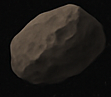
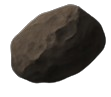
feat: changed obstacles with asteroids images and formatted this images with transparent background

diff --git a/src/motor.js b/src/motor.js
@@ -140,12 +140,17 @@ function update(deltaTime) {
 }
 
 function generateObstacle() {
-    const width = 60 + Math.random() * 40;
-    const height = 40 + Math.random() * 60;
+
+    const asteroidType = Math.round(Math.random() * 6);
+    const asteroidImage = images.asteroids[asteroidType];   
+
+    const width = asteroidImage.width;
+    const height = asteroidImage.height;
     
     gameState.obstacles.push({
         x: Math.random() * (canvas.width - width),
         y: -height,
+        image:asteroidImage,
         width: width,
         height: height
     });

diff --git a/src/assets.js b/src/assets.js
@@ -3,8 +3,15 @@ function loadImages() {
     const playerImage = new Image();
     playerImage.src = './assets/images/player/player.png';
 
+    let asteroids = [];
+    for(let i=1;i<=7;i++) {
+        let asteroidImage = new Image();
+        asteroidImage.src = './assets/images/asteroid/asteroid'+i+'.png';
+        asteroids.push(asteroidImage);
+    }
     
     return {
-        player: playerImage
+        player: playerImage,
+        asteroids: asteroids
     };
 }

diff --git a/src/render.js b/src/render.js
@@ -39,8 +39,10 @@ function renderPlayer() {
 
 function renderObstacles() {
     ctx.fillStyle = '#e74c3c';
+    
     gameState.obstacles.forEach(obstacle => {
-        ctx.fillRect(obstacle.x, obstacle.y, obstacle.width, obstacle.height);
+        const angle=0;
+        drawRotatedImage(obstacle.image, obstacle.x, obstacle.y, obstacle.width, obstacle.height, angle);
     });
 }
 

diff --git a/src/game.js b/src/game.js
@@ -10,6 +10,7 @@ let lastTime = 0;
 let gameState = getStartGamestate();
 
 const images = loadImages();
+console.log(images);
 
 setEventHandling(canvas);
 gameLoop(Date.now());
